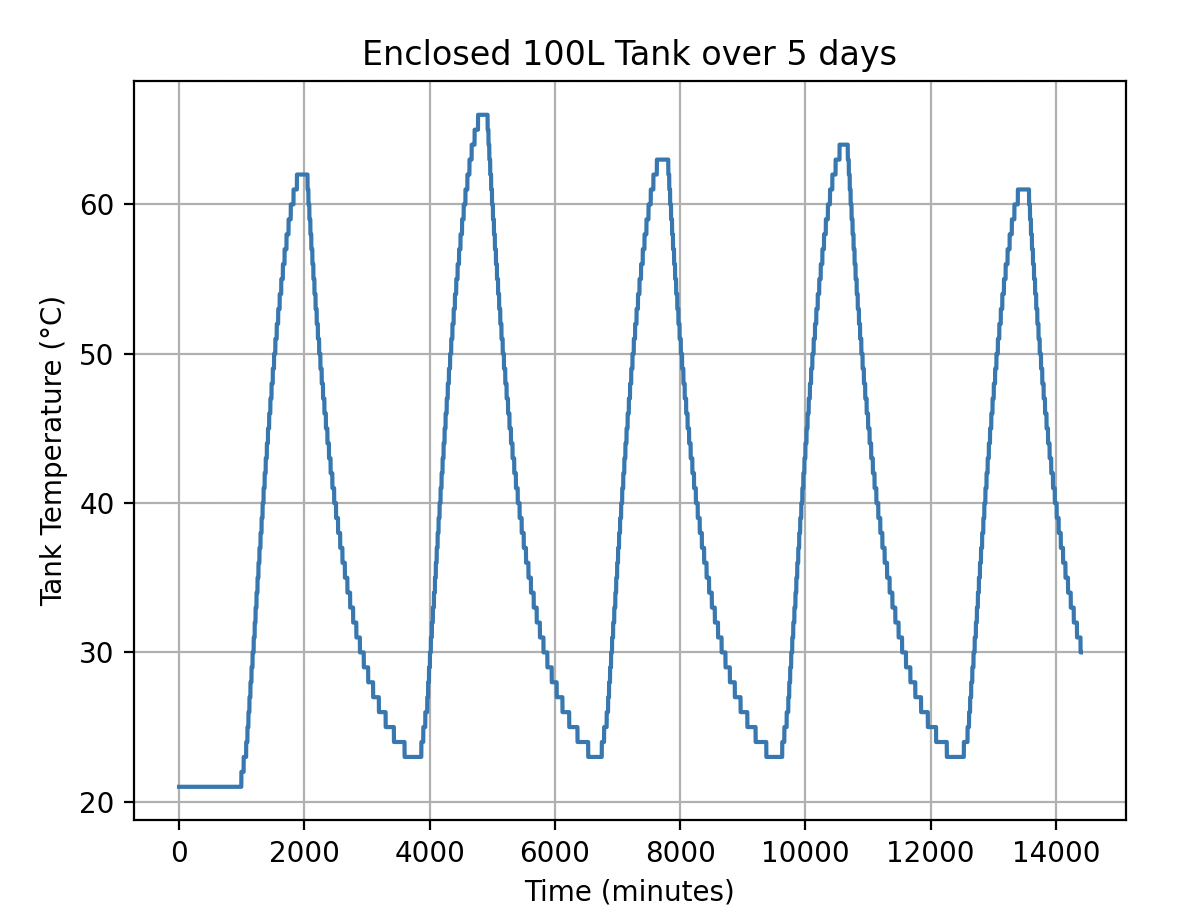
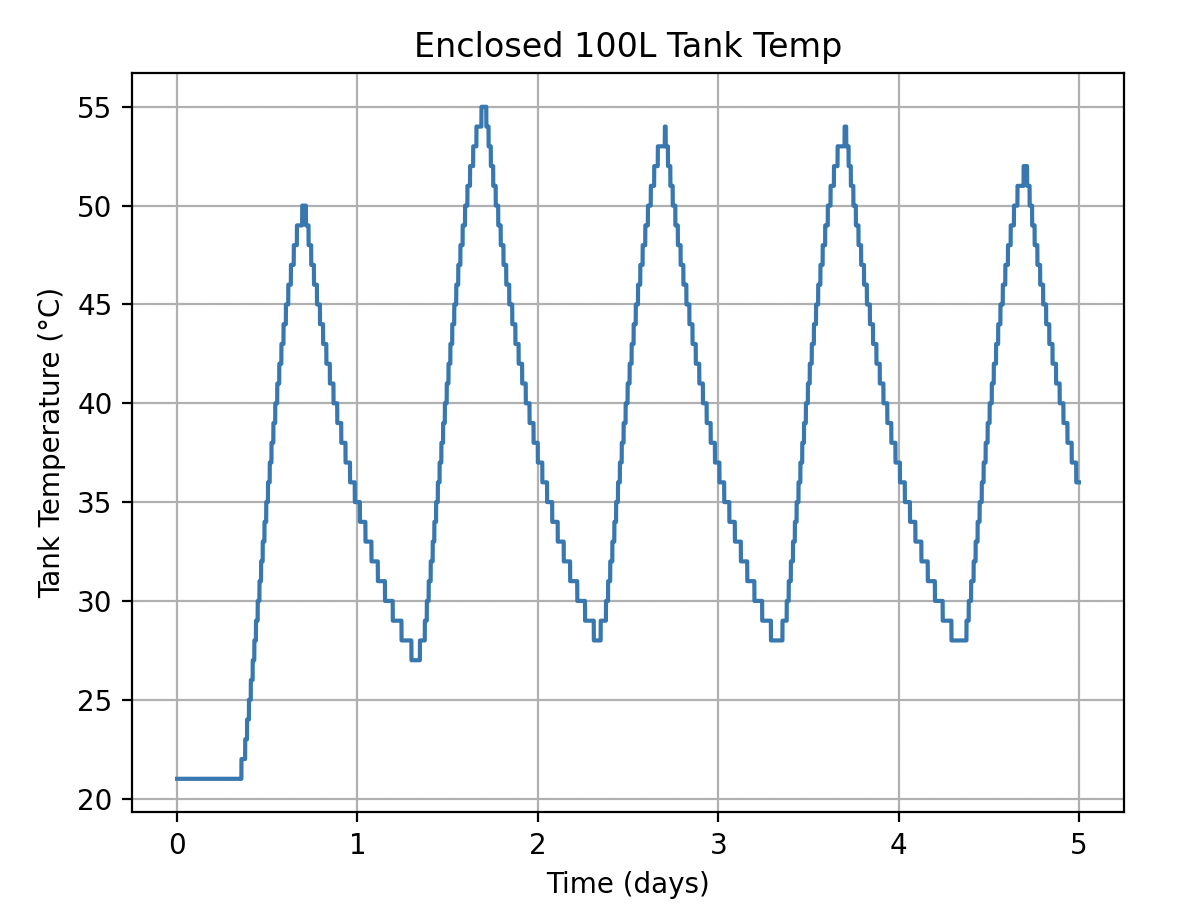
edit graph to have days as x axis

Changed region(s): [[0.0609, 0.0305, 0.9746, 1.0], [0.0305, 0.305, 0.1218, 0.671], [0.0609, 0.7015, 0.1218, 0.793]]

diff --git a/src/app.py b/src/app.py
@@ -106,10 +106,10 @@ def simulate_solar_tank_thermodynamics(
 
         tank_temp_over_time[i] = current_tank_temp
 
-    plt.plot(time / 60, tank_temp_over_time)
-    plt.xlabel("Time (minutes)")
+    plt.plot(time / 60 / 60 / 24, tank_temp_over_time)
+    plt.xlabel("Time (days)")
     plt.ylabel("Tank Temperature (°C)")
-    plt.title("Enclosed 100L Tank over 5 days")
+    plt.title("Enclosed 100L Tank Temp")
     plt.grid(True)
     plt.show()
 
